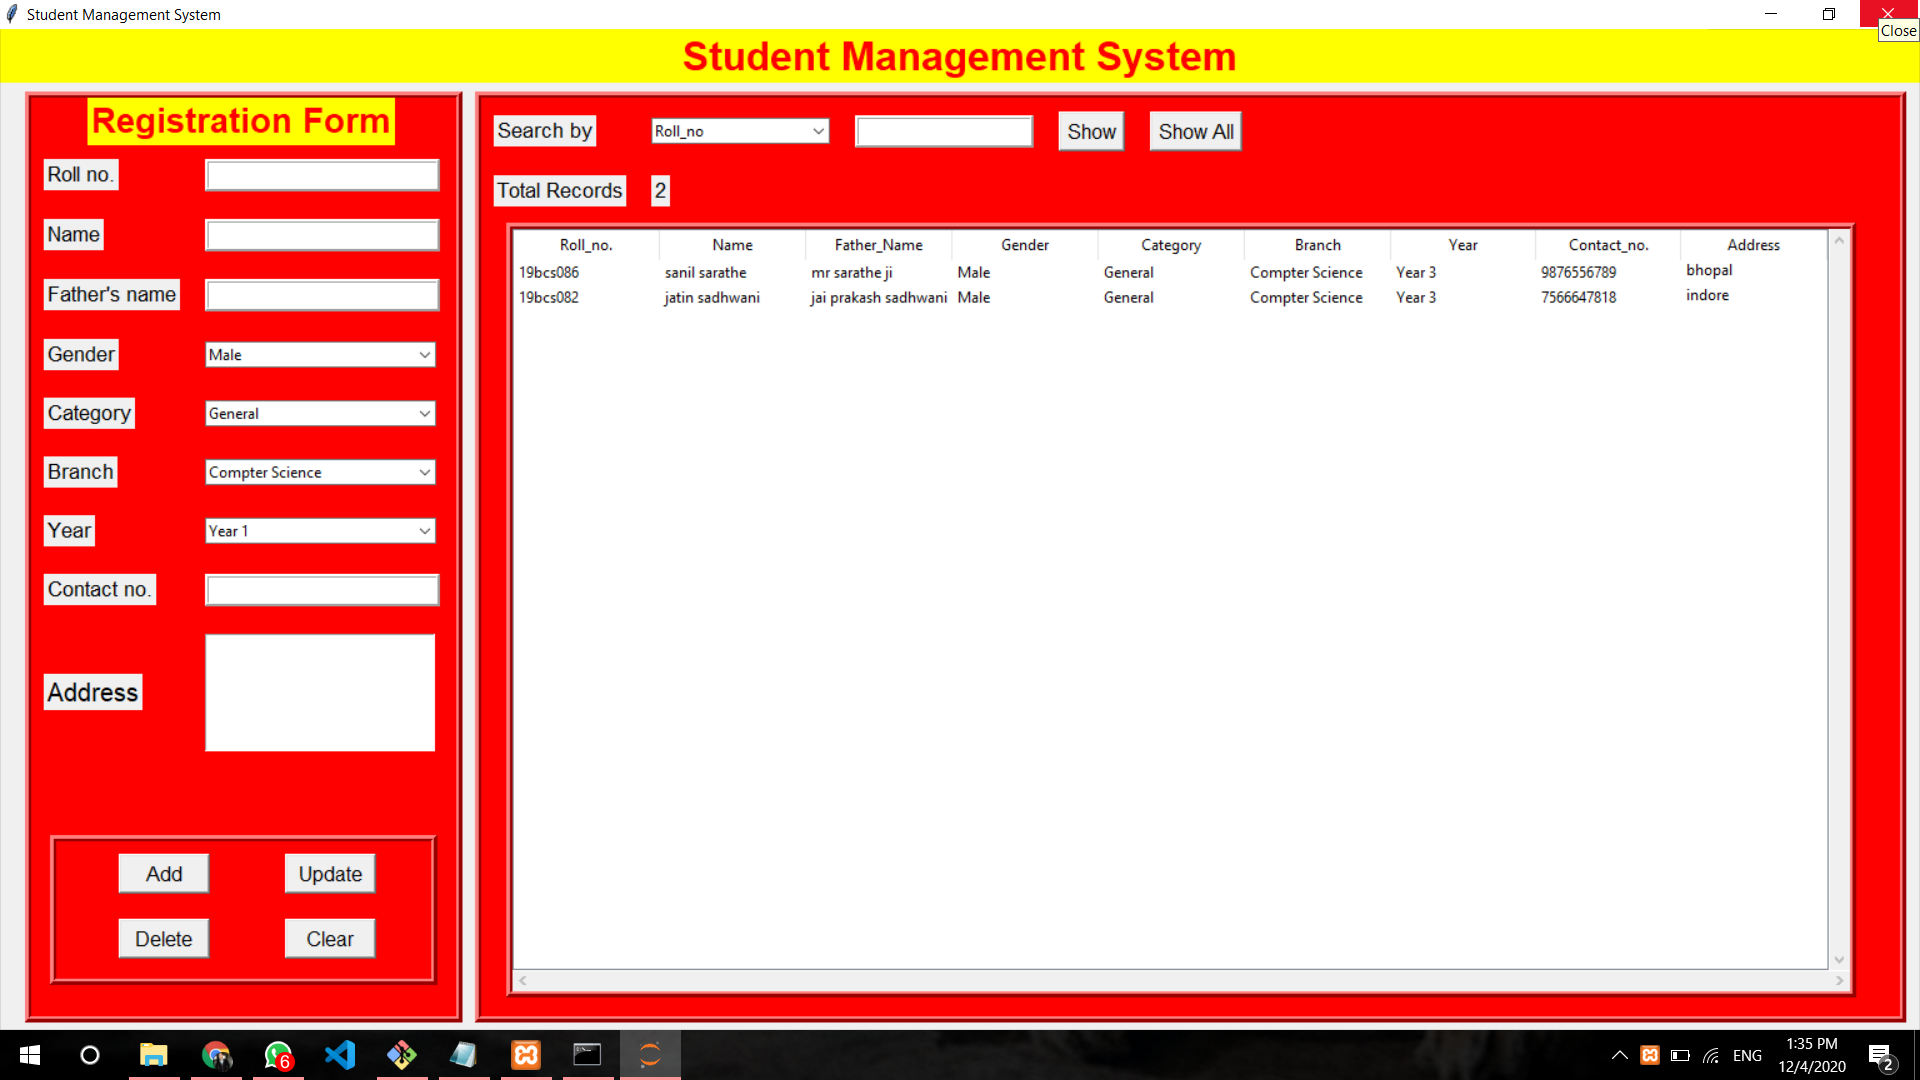
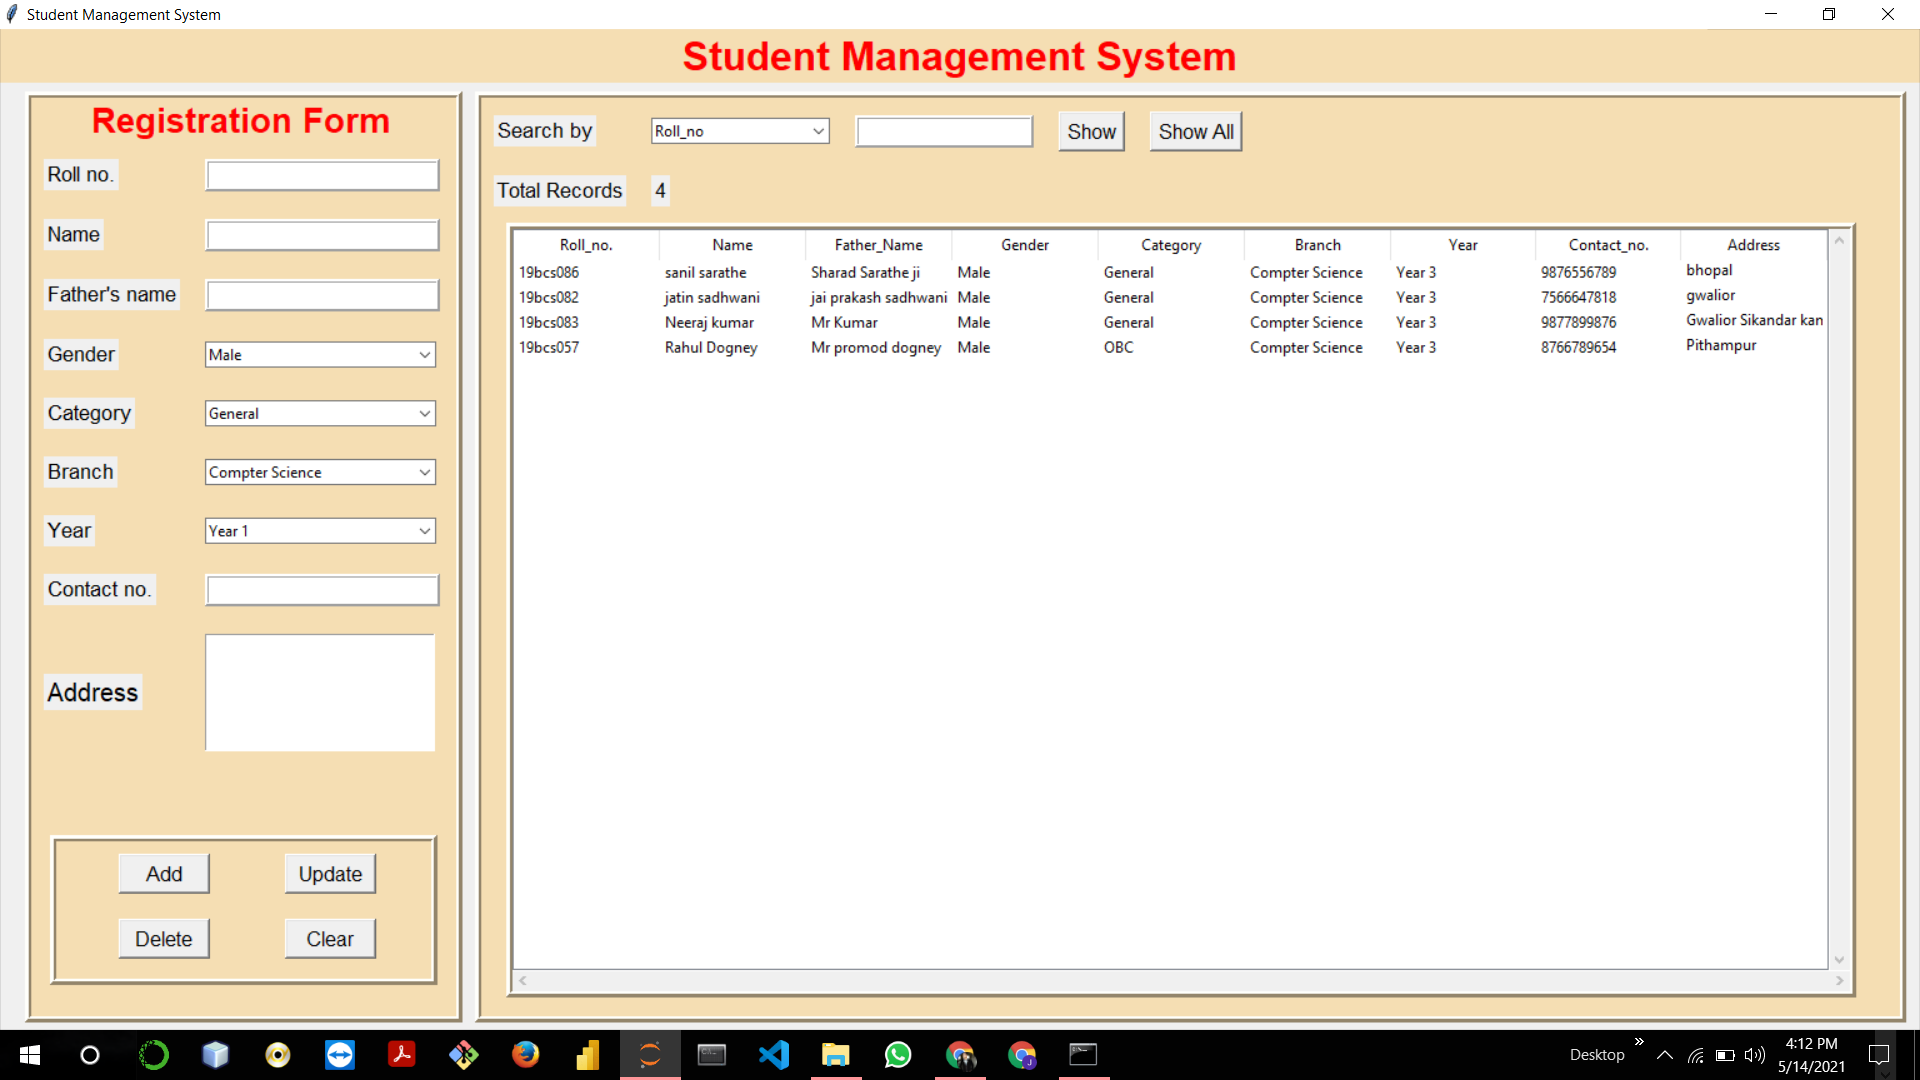
Student Management System

diff --git a/tkinter1.py b/tkinter1.py
@@ -25,17 +25,17 @@ class Student:
 
 
 
-		headinglbl=Label(root,text="Student Management System",font=("arial",24,"bold"),bg='yellow',fg='red')
+		headinglbl=Label(root,text="Student Management System",font=("arial",24,"bold"),bg='wheat',fg='red')
 		headinglbl.pack(side=TOP,fill=X)
 
 		#***********Frame-1***************
-		entry_frame=Frame(root,bd=5,relief='ridge',bg='red')
+		entry_frame=Frame(root,bd=5,relief='ridge',bg='wheat')
 		entry_frame.place(x=20,y=50,width=350,height=745)
 
 
 
 		#Labels of frame-1
-		reg_lbl=Label(entry_frame,text="Registration Form",font=("arial",20,"bold"),bg='yellow',fg='red')
+		reg_lbl=Label(entry_frame,text="Registration Form",font=("arial",20,"bold"),bg='wheat',fg='red')
 		reg_lbl.grid(row=0,columnspan=2)
 
 		roll_lbl=Label(entry_frame,text="Roll no.",font=("",13))
@@ -218,7 +218,7 @@ class Student:
 		#**********Frame-3 Button**************
 		
 
-		btn_frame=Frame(entry_frame,bd=5,relief='ridge',bg='red')
+		btn_frame=Frame(entry_frame,bd=5,relief='ridge',bg='wheat')
 		btn_frame.place(x=15,y=590,width=310,height=120)
 
 
@@ -236,7 +236,7 @@ class Student:
 
 
 		#***********Frame-2***************
-		data_frame=Frame(root,bd=5,relief='ridge',bg='red')
+		data_frame=Frame(root,bd=5,relief='ridge',bg='wheat')
 		data_frame.place(x=380,y=50,width=1145,height=745)
 
 
@@ -273,7 +273,7 @@ class Student:
 
 		#************Frame-3 Treeview***************
 
-		view_frame=Frame(data_frame,bd=5,relief='ridge',bg='red')
+		view_frame=Frame(data_frame,bd=5,relief='ridge',bg='wheat')
 		view_frame.place(x=20,y=100,width=1080,height=620)
 
 
